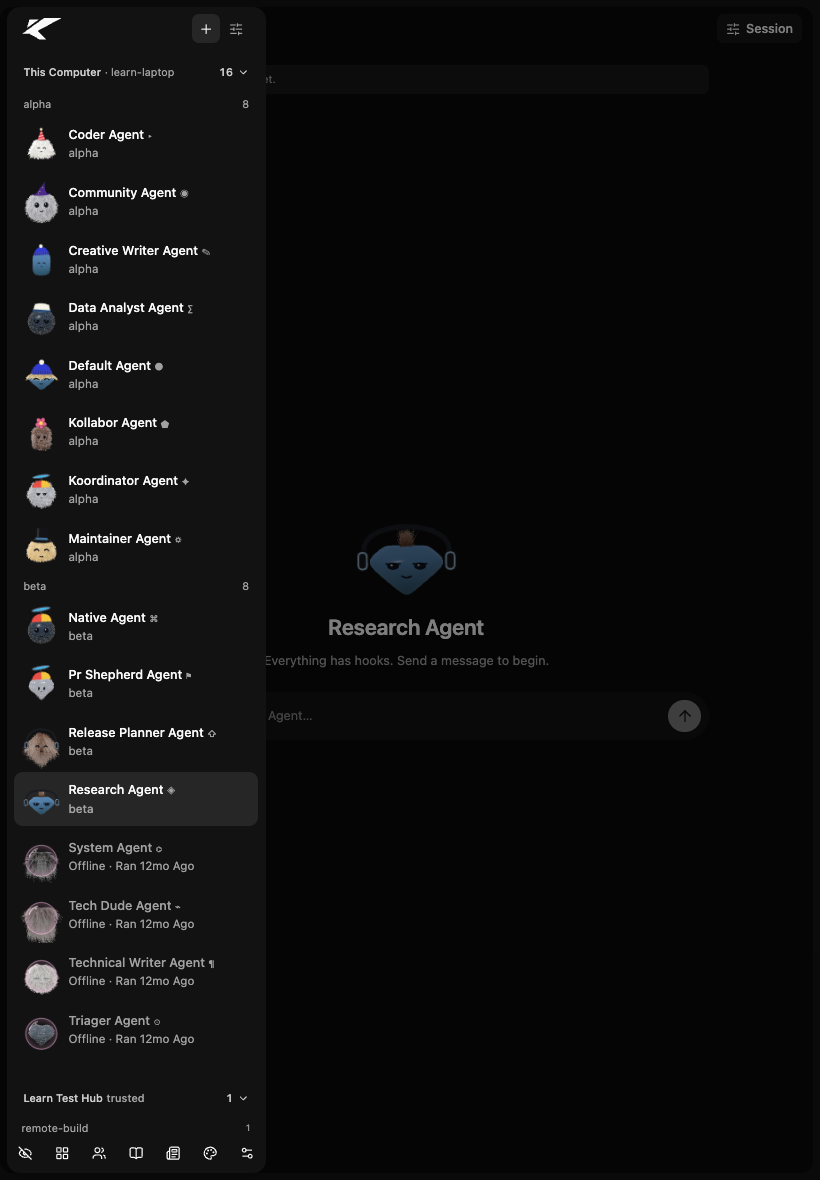
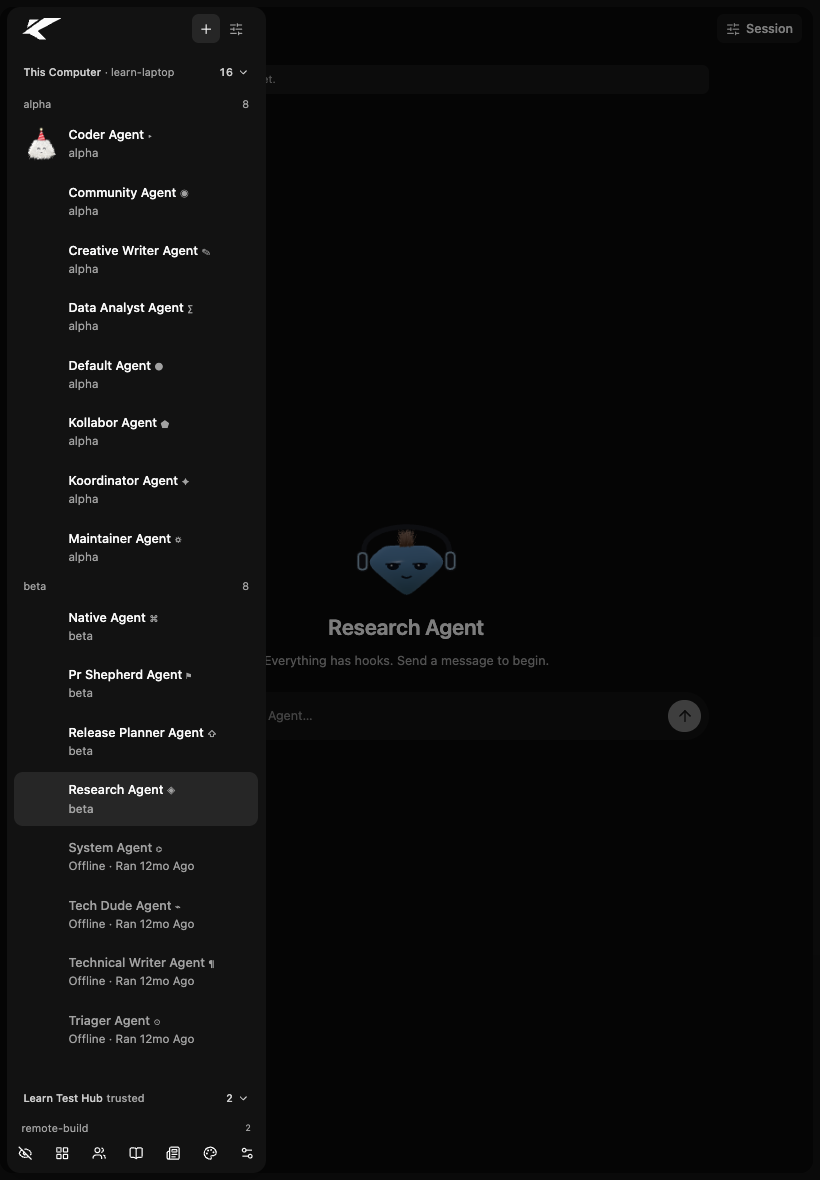
fix(webui): omit type marks for remote agents

Changed region(s): [[0.0305, 0.5186, 0.0915, 0.8847], [0.0305, 0.1525, 0.0915, 0.4881]]

diff --git a/packages/kollabor-webui/frontend/src/components/shell/AppSidebar.tsx b/packages/kollabor-webui/frontend/src/components/shell/AppSidebar.tsx
@@ -750,7 +750,7 @@ export function AppSidebar({
                           // Not up, or unknown: no local agent answered the network probe.
                           const up = (net.live !== false && network.live !== false) && agent.state !== "offline";
                           const seen = agent.last_seen ? `Seen ${since(agent.last_seen)}` : "";
-                          const agentType = resolveSidebarAgentType(poolByName.get(agent.name));
+                          // NetworkAgent has no bundle type. Never infer one from a local name match.
 
                           return (
                           <AgentSidebarRow
@@ -789,7 +789,6 @@ export function AppSidebar({
                               <div className="flex min-w-0 flex-1 flex-col gap-0.5">
                                 <span className="flex min-w-0 items-baseline text-sm leading-snug font-medium">
                                   <span className="min-w-0 truncate">{remoteName(agent.name)}</span>
-                                  <AgentTypeGlyph type={agentType} />
                                 </span>
                                 <span className="text-muted-foreground truncate text-[0.8125rem] leading-snug">
                                   {note && !note.error

diff --git a/packages/kollabor-webui/frontend/src/learn/catalog.ts b/packages/kollabor-webui/frontend/src/learn/catalog.ts
@@ -59,7 +59,7 @@ export const LEARN_TOPICS = [
       "Agents are named collaborators with their own instructions and optional skills. Rosters group agents; teams can start several agents together. In the sidebar, local agents are grouped under their workspace so you can tell which project each one works in.",
     howTo: [
       "Open Agents to see the rosters and teams available in the selected workspace.",
-      "The small muted mark after an agent name identifies its bundle; hover to see the full name, which screen readers also announce.",
+      "The small muted mark after a local or offline agent name identifies its bundle; hover to see the full name, which screen readers also announce. Remote rows omit the mark because network data does not include a bundle type.",
       "Choose a single agent for a focused task, or a team when the work needs parallel roles.",
       "On a team's card, choose Configure & Launch to open the launch sheet.",
       "Choose a workspace and profile, include members, then set a lead and optional mission.",

diff --git a/docs/features/agents.md b/docs/features/agents.md
@@ -102,12 +102,14 @@ bundle exists.
 
 ## Sidebar Type Marks
 
-The Web UI sidebar places a small, muted glyph after each agent name to identify its
-agent bundle (for example, coder `▸`, research `◈`, or default `●`). Hovering the mark
-shows the full bundle name, which is also exposed to screen readers. A custom bundle
-still gets a generic mark with its actual name; an unknown or missing type is never
-presented as a different bundle. The mark does not change the agent identity, workspace
-grouping, or row actions.
+The Web UI sidebar places a small, muted glyph after each local-session or offline
+agent name to identify its bundle (for example, coder `▸`, research `◈`, or default
+`●`). Hovering the mark shows the full bundle name, which is also exposed to screen
+readers. A custom bundle still gets a generic mark with its actual name; an unknown or
+missing type is never presented as a different bundle. Network/remote rows do not show
+a type mark because their data does not include the bundle type; matching their names
+to a local roster entry could show the wrong type. The mark does not change identity,
+workspace grouping, or row actions.
 
 ## Hub Rosters and Teams
 

diff --git a/CHANGELOG.md b/CHANGELOG.md
@@ -11,7 +11,7 @@ and this project adheres to [Semantic Versioning](https://semver.org/spec/v2.0.0
 - The hub no longer permanently exhausts a conversation transport's peer request slots when the relay rejects a request for capacity: rejected slots are released, so other peers can keep talking after a capacity reject (#627).
 
 ### Added
-- The Web UI sidebar now shows a compact, accessible glyph for each agent bundle type (#655).
+- Local and offline Web UI sidebar rows now show a compact, accessible glyph for their agent bundle type (#655).
 - Hub messages addressed to the operator are delivered through ntfy as well as the terminal, so operator pings reach you even when no session is watching (#626).
 - Team launches now support member selection or exclusions across the CLI,
   TUI and Web UI. The launch sheet sets the workspace, profile, lead and

diff --git a/kollabor/updates/CHANGELOG.md b/kollabor/updates/CHANGELOG.md
@@ -11,7 +11,7 @@ and this project adheres to [Semantic Versioning](https://semver.org/spec/v2.0.0
 - The hub no longer permanently exhausts a conversation transport's peer request slots when the relay rejects a request for capacity: rejected slots are released, so other peers can keep talking after a capacity reject (#627).
 
 ### Added
-- The Web UI sidebar now shows a compact, accessible glyph for each agent bundle type (#655).
+- Local and offline Web UI sidebar rows now show a compact, accessible glyph for their agent bundle type (#655).
 - Hub messages addressed to the operator are delivered through ntfy as well as the terminal, so operator pings reach you even when no session is watching (#626).
 - Team launches now support member selection or exclusions across the CLI,
   TUI and Web UI. The launch sheet sets the workspace, profile, lead and
